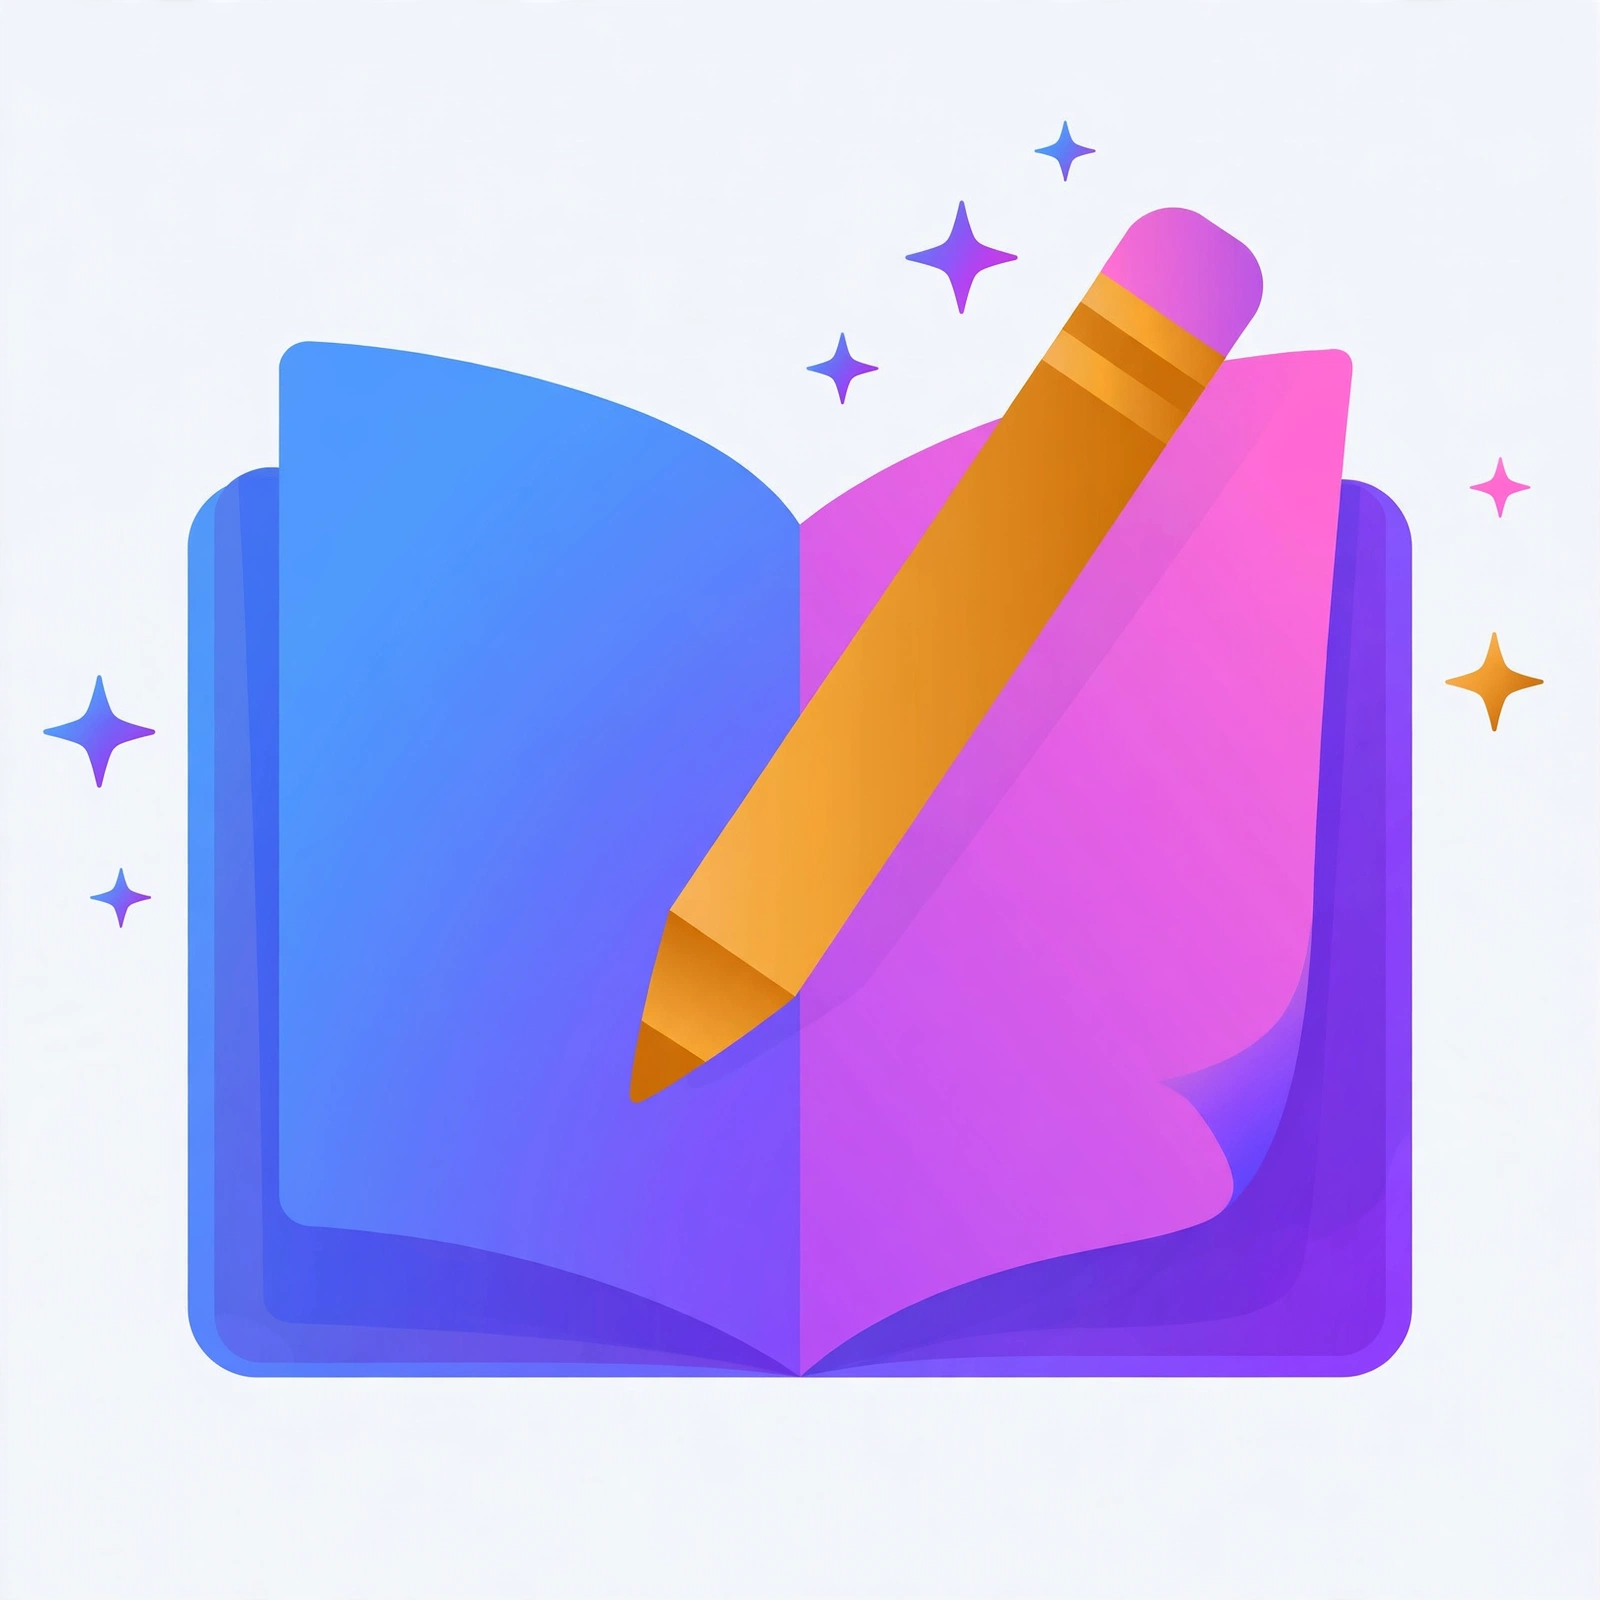
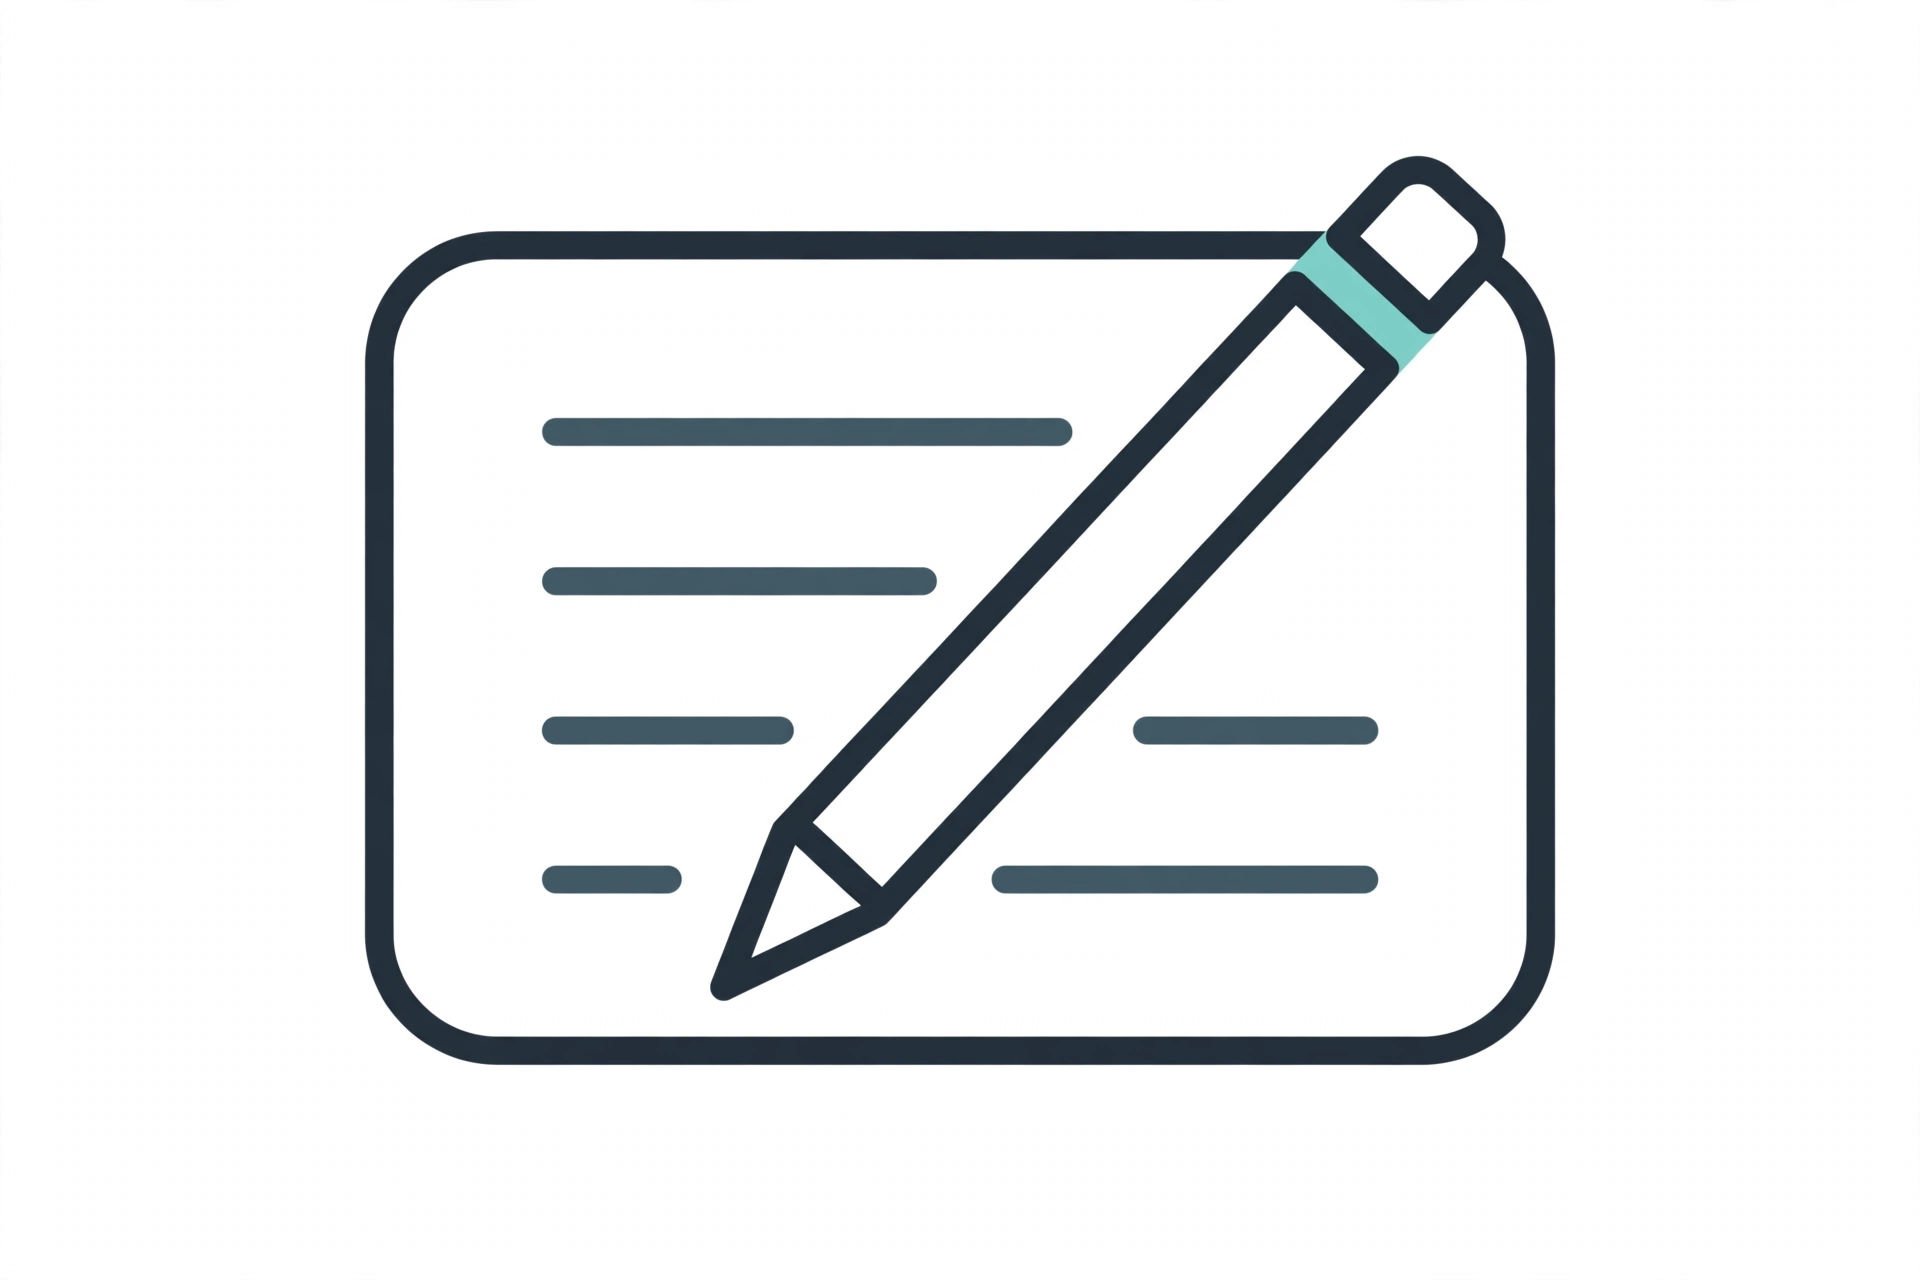
v2.0.0: white minimal redesign (Dobo-style headings via Baloo 2, Teal/Gray palette, HD assets)

diff --git a/public/index.html b/public/index.html
@@ -6,46 +6,21 @@
 <title>Focus Desk</title>
 <link rel="preconnect" href="https://fonts.googleapis.com">
 <link rel="preconnect" href="https://fonts.gstatic.com" crossorigin>
-<link href="https://fonts.googleapis.com/css2?family=Plus+Jakarta+Sans:wght@400;500;600;700&family=Sora:wght@600;700;800&display=swap" rel="stylesheet">
+<link href="https://fonts.googleapis.com/css2?family=Baloo+2:wght@700;800&family=Inter:wght@400;500;600;700&display=swap" rel="stylesheet">
 <style>
   :root{
-    --bg:#faf7ff; --card:#ffffff; --ink:#211a35; --muted:#7c7492;
-    --line:#e9e1f6; --accent:#8b5cf6; --accent-soft:#f1e9fd;
-    --brand1:#ec4899; --brand2:#8b5cf6; --brand3:#3b82f6;
-    --gold1:#fbbf24; --gold2:#f97316;
-    --gradient:linear-gradient(135deg,#ec4899 0%,#8b5cf6 52%,#3b82f6 100%);
-    --gradient-warm:linear-gradient(135deg,#fbbf24,#f97316);
-    --green:#10b981; --green-soft:#d9f6e9; --red:#f43f5e;
-    --shadow:0 2px 6px rgba(33,26,53,.05),0 20px 48px -20px rgba(139,92,246,.28);
-    --radius:22px;
-  }
-  @media (prefers-color-scheme: dark){
-    :root{
-      --bg:#110d1c; --card:#1b152b; --ink:#f3eefa; --muted:#9d94b8;
-      --line:#2d2544; --accent:#a78bfa; --accent-soft:#2a2140;
-      --green:#34d399; --green-soft:#173a2c; --red:#fb7185;
-      --shadow:0 2px 6px rgba(0,0,0,.35),0 20px 48px -20px rgba(139,92,246,.35);
-    }
+    --bg:#FFFFFF; --card:#FFFFFF; --ink:#263238; --muted:#455A64;
+    --line:#CFD8DC; --accent:#80CBC4; --accent-soft:#ECEFF1;
+    --green:#2E7D32; --green-soft:#E8F5E9; --red:#C62828; --red-soft:#FCECEA;
+    --shadow:0 1px 2px rgba(38,50,56,.06),0 10px 28px -16px rgba(38,50,56,.14);
+    --radius:14px;
   }
   *{box-sizing:border-box;margin:0;padding:0}
   html{-webkit-text-size-adjust:100%}
   body{
-    font-family:"Plus Jakarta Sans",-apple-system,BlinkMacSystemFont,"SF Pro Text","Segoe UI",Roboto,Helvetica,Arial,sans-serif;
+    font-family:"Inter",-apple-system,BlinkMacSystemFont,"SF Pro Text","Segoe UI",Roboto,Helvetica,Arial,sans-serif;
     background:var(--bg);color:var(--ink);
     min-height:100vh;line-height:1.55;
-    background-image:
-      radial-gradient(900px 480px at 12% -60px,rgba(236,72,153,.16),transparent 60%),
-      radial-gradient(820px 440px at 88% -40px,rgba(59,130,246,.15),transparent 60%),
-      radial-gradient(760px 560px at 50% 115%,rgba(139,92,246,.12),transparent 62%);
-    background-attachment:fixed;
-  }
-  @media (prefers-color-scheme: dark){
-    body{
-      background-image:
-        radial-gradient(900px 480px at 12% -60px,rgba(236,72,153,.10),transparent 60%),
-        radial-gradient(820px 440px at 88% -40px,rgba(59,130,246,.10),transparent 60%),
-        radial-gradient(760px 560px at 50% 115%,rgba(139,92,246,.10),transparent 62%);
-    }
   }
   .offline-banner{
     background:var(--red);color:#fff;text-align:center;font-size:13px;font-weight:600;
@@ -60,29 +35,22 @@
     margin-bottom:26px;
   }
   .title{display:flex;align-items:center;gap:14px}
-  .brand{width:52px;height:52px;border-radius:16px;object-fit:cover;flex:none;
-    box-shadow:0 8px 20px -6px rgba(139,92,246,.55)}
+  .brand{width:52px;height:52px;border-radius:14px;object-fit:cover;flex:none;
+    border:1px solid var(--line)}
   .title h1{
-    font-family:"Sora","Plus Jakarta Sans",sans-serif;font-weight:800;
-    font-size:clamp(28px,4vw,38px);letter-spacing:-.025em;line-height:1.1;
+    font-family:"Baloo 2","Inter",sans-serif;font-weight:800;
+    font-size:clamp(28px,4vw,38px);letter-spacing:-.01em;line-height:1.1;color:var(--ink);
   }
-  .title h1 .dot{
-    background:var(--gradient);-webkit-background-clip:text;background-clip:text;color:transparent;
-  }
+  .title h1 .dot{color:var(--accent)}
   .title p{color:var(--muted);font-size:14px;margin-top:2px}
   .stats{display:flex;gap:10px;flex-wrap:wrap}
   .stat{
-    background:var(--card);border:1px solid var(--line);border-radius:16px;
+    background:var(--card);border:1px solid var(--line);border-radius:var(--radius);
     padding:10px 16px;box-shadow:var(--shadow);text-align:center;min-width:92px;
-    position:relative;overflow:hidden;
-  }
-  .stat::before{
-    content:"";position:absolute;top:0;left:0;right:0;height:3px;background:var(--gradient);
   }
   .stat b{
-    display:block;font-family:"Sora",sans-serif;font-size:22px;font-weight:700;
-    font-variant-numeric:tabular-nums;
-    background:var(--gradient);-webkit-background-clip:text;background-clip:text;color:transparent;
+    display:block;font-family:"Baloo 2","Inter",sans-serif;font-size:22px;font-weight:800;
+    font-variant-numeric:tabular-nums;color:var(--ink);
   }
   .stat span{font-size:11px;color:var(--muted);text-transform:uppercase;letter-spacing:.06em;font-weight:600}
 
@@ -94,43 +62,42 @@
     box-shadow:var(--shadow);padding:22px;display:flex;flex-direction:column;gap:14px;min-width:0;
   }
   .card h2{
-    font-family:"Sora",sans-serif;font-size:16px;font-weight:700;letter-spacing:-.01em;
-    display:flex;align-items:center;gap:12px;
+    font-family:"Baloo 2","Inter",sans-serif;font-size:17px;font-weight:700;letter-spacing:0;
+    display:flex;align-items:center;gap:12px;color:var(--ink);
   }
   .card-art{
-    width:46px;height:46px;border-radius:14px;object-fit:cover;flex:none;
-    box-shadow:0 6px 14px -6px rgba(139,92,246,.5);
+    width:46px;height:46px;border-radius:12px;object-fit:cover;flex:none;
+    border:1px solid var(--line);
   }
 
   /* Inputs & buttons */
   input[type=text],textarea{
-    font:inherit;color:var(--ink);background:var(--bg);
-    border:1px solid var(--line);border-radius:14px;padding:11px 14px;width:100%;
+    font:inherit;color:var(--ink);background:#fff;
+    border:1px solid var(--line);border-radius:12px;padding:11px 14px;width:100%;
     transition:border-color .15s,box-shadow .15s;
   }
   input[type=text]:focus,textarea:focus{
-    outline:none;border-color:var(--brand2);
-    box-shadow:0 0 0 3px rgba(139,92,246,.18);
+    outline:none;border-color:var(--muted);
+    box-shadow:0 0 0 3px rgba(128,203,196,.28);
   }
   button{font:inherit;cursor:pointer;border:none;background:none;color:inherit}
   .btn{
-    background:var(--gradient);color:#fff;font-weight:700;border-radius:14px;
-    padding:11px 20px;transition:transform .08s ease,box-shadow .15s,filter .15s;
-    box-shadow:0 10px 22px -10px rgba(139,92,246,.65);
+    background:var(--ink);color:#fff;font-weight:700;border-radius:12px;
+    padding:11px 20px;transition:transform .08s ease,background .15s;
   }
-  .btn:hover{filter:brightness(1.06)}
+  .btn:hover{background:var(--muted)}
   .btn:active{transform:scale(.97)}
   .btn.ghost{
-    background:var(--accent-soft);color:var(--ink);border:1px solid var(--line);box-shadow:none;
+    background:#fff;color:var(--ink);border:1px solid var(--line);
   }
-  .btn.ghost:hover{background:var(--line)}
+  .btn.ghost:hover{background:var(--accent-soft)}
   .row{display:flex;gap:10px}
   .row input{flex:1}
 
   /* Todos */
   .todo-list{list-style:none;display:flex;flex-direction:column;gap:8px}
   .todo{
-    display:flex;align-items:center;gap:12px;padding:10px 12px;border-radius:14px;
+    display:flex;align-items:center;gap:12px;padding:10px 12px;border-radius:12px;
     border:1px solid transparent;transition:background .15s;
   }
   .todo:hover{background:var(--accent-soft)}
@@ -143,44 +110,43 @@
   .todo.done .text{color:var(--muted);text-decoration:line-through}
   .del{opacity:.35;font-size:16px;padding:4px 8px;border-radius:8px;line-height:1}
   .del:hover{opacity:1;background:var(--accent-soft)}
-  .empty{color:var(--muted);font-size:14px;text-align:center;padding:18px 8px;border:1px dashed var(--line);border-radius:14px}
+  .empty{color:var(--muted);font-size:14px;text-align:center;padding:18px 8px;border:1px dashed var(--line);border-radius:12px}
 
   /* Habits */
   .habit{
     display:flex;align-items:center;gap:12px;padding:12px;border:1px solid var(--line);
-    border-radius:16px;background:var(--bg);
+    border-radius:var(--radius);background:#fff;
   }
   .habit-info{flex:1;min-width:0}
   .habit-info .name{font-weight:600;overflow-wrap:anywhere}
   .habit-info .streak{font-size:13px;color:var(--muted)}
-  .streak.on{color:var(--brand1);font-weight:700}
+  .streak.on{color:var(--ink);font-weight:700}
   .dots{display:flex;gap:4px;margin-top:6px}
-  .dots i{width:10px;height:10px;border-radius:50%;background:var(--line)}
-  .dots i.hit{background:var(--gradient)}
-  .dots i.today{outline:2px solid var(--brand2);outline-offset:1px}
+  .dots i{width:10px;height:10px;border-radius:50%;background:var(--accent-soft)}
+  .dots i.hit{background:var(--accent)}
+  .dots i.today{outline:2px solid var(--muted);outline-offset:1px}
   .habit-btn{
     width:44px;height:44px;border-radius:50%;border:2px solid var(--line);
-    font-size:20px;flex:none;display:grid;place-items:center;transition:all .15s;background:var(--card);
+    font-size:20px;flex:none;display:grid;place-items:center;transition:all .15s;background:#fff;
   }
-  .habit-btn.hit{background:var(--gradient);border-color:transparent;color:#fff}
+  .habit-btn.hit{background:var(--accent);border-color:var(--accent);color:#fff}
 
   /* Timer */
   .timer-card{align-items:center;text-align:center}
   .modes{display:flex;gap:8px;flex-wrap:wrap;justify-content:center}
   .mode{
     padding:8px 16px;border-radius:999px;border:1px solid var(--line);
-    font-size:13px;font-weight:700;color:var(--muted);background:var(--bg);transition:all .15s;
+    font-size:13px;font-weight:700;color:var(--muted);background:#fff;transition:all .15s;
   }
-  .mode.active{background:var(--gradient);color:#fff;border-color:transparent;
-    box-shadow:0 8px 18px -8px rgba(139,92,246,.6)}
+  .mode.active{background:var(--ink);color:#fff;border-color:var(--ink)}
   .ring-wrap{position:relative;width:220px;height:220px;margin:6px auto}
   .ring-wrap svg{transform:rotate(-90deg)}
-  .ring-bg{stroke:var(--line)}
-  .ring-fg{stroke-linecap:round;transition:stroke-dashoffset .4s linear}
+  .ring-bg{stroke:var(--accent-soft)}
+  .ring-fg{stroke:var(--accent);stroke-linecap:round;transition:stroke-dashoffset .4s linear}
   .ring-label{position:absolute;inset:0;display:flex;flex-direction:column;justify-content:center;align-items:center}
   .ring-label time{
-    font-family:"Sora",sans-serif;font-size:46px;font-weight:700;
-    font-variant-numeric:tabular-nums;letter-spacing:-.02em;
+    font-family:"Baloo 2","Inter",sans-serif;font-size:46px;font-weight:700;
+    font-variant-numeric:tabular-nums;letter-spacing:-.02em;color:var(--ink);
   }
   .ring-label small{color:var(--muted);text-transform:uppercase;letter-spacing:.1em;font-size:11px;font-weight:600}
   .timer-controls{display:flex;gap:10px;justify-content:center;flex-wrap:wrap}
@@ -199,67 +165,65 @@
   /* Auth overlay */
   .auth-overlay{
     position:fixed;inset:0;z-index:100;display:grid;place-items:center;padding:20px;
-    background:color-mix(in srgb, var(--bg) 82%, transparent);
+    background:rgba(255,255,255,.92);
     backdrop-filter:blur(8px);-webkit-backdrop-filter:blur(8px);
   }
   .auth-overlay[hidden]{display:none}
   .auth-card{
-    background:var(--card);border:1px solid var(--line);border-radius:24px;
+    background:var(--card);border:1px solid var(--line);border-radius:18px;
     box-shadow:var(--shadow);padding:26px;width:100%;max-width:400px;
     display:flex;flex-direction:column;gap:12px;
   }
   .auth-hero{
-    width:100%;height:168px;object-fit:cover;border-radius:16px;flex:none;
-    box-shadow:0 10px 24px -12px rgba(139,92,246,.5);
+    width:100%;height:168px;object-fit:cover;border-radius:12px;flex:none;
+    border:1px solid var(--line);
   }
   .auth-card h1{
-    font-family:"Sora",sans-serif;font-weight:800;
-    font-size:30px;letter-spacing:-.02em;text-align:center;
+    font-family:"Baloo 2","Inter",sans-serif;font-weight:800;
+    font-size:30px;letter-spacing:0;text-align:center;color:var(--ink);
   }
-  .auth-card h1 .dot{
-    background:var(--gradient);-webkit-background-clip:text;background-clip:text;color:transparent;
-  }
+  .auth-card h1 .dot{color:var(--accent)}
   .auth-sub{text-align:center;color:var(--muted);font-size:14px;margin-top:-8px}
-  .auth-tabs{display:flex;background:var(--accent-soft);border-radius:14px;padding:4px;margin:4px 0}
-  .auth-tab{flex:1;padding:9px;border-radius:10px;font-weight:700;font-size:14px;color:var(--muted)}
-  .auth-tab.active{background:var(--card);color:var(--ink);box-shadow:var(--shadow)}
+  .auth-tabs{display:flex;background:var(--accent-soft);border-radius:12px;padding:4px;margin:4px 0}
+  .auth-tab{flex:1;padding:9px;border-radius:9px;font-weight:700;font-size:14px;color:var(--muted)}
+  .auth-tab.active{background:#fff;color:var(--ink);box-shadow:var(--shadow)}
   .auth-card input[type=text],.auth-card input[type=password],.auth-card input[type=email]{
-    font:inherit;color:var(--ink);background:var(--bg);
-    border:1px solid var(--line);border-radius:14px;padding:11px 14px;width:100%;
+    font:inherit;color:var(--ink);background:#fff;
+    border:1px solid var(--line);border-radius:12px;padding:11px 14px;width:100%;
   }
   .auth-card input[type=text]:focus,.auth-card input[type=password]:focus,.auth-card input[type=email]:focus{
-    outline:none;border-color:var(--brand2);box-shadow:0 0 0 3px rgba(139,92,246,.18);
+    outline:none;border-color:var(--muted);box-shadow:0 0 0 3px rgba(128,203,196,.28);
   }
   .auth-error{
-    background:var(--accent-soft);color:var(--red);font-size:13px;font-weight:600;
-    border-radius:14px;padding:10px 12px;
+    background:var(--red-soft);color:var(--red);font-size:13px;font-weight:600;
+    border-radius:12px;padding:10px 12px;
   }
   .auth-error[hidden]{display:none}
   .auth-ok{
     background:var(--green-soft);color:var(--green);font-size:13px;font-weight:600;
-    border-radius:14px;padding:10px 12px;
+    border-radius:12px;padding:10px 12px;
   }
   .auth-ok[hidden]{display:none}
   .field-label{display:block;font-size:12px;font-weight:600;color:var(--muted);margin:4px 0 -8px}
-  #profileEmail[readonly]{background:var(--bg);color:var(--muted);cursor:default}
+  #profileEmail[readonly]{background:var(--accent-soft);color:var(--muted);cursor:default}
   .linklike{
     background:none;border:0;color:var(--muted);text-decoration:underline;
-    font-size:13px;padding:8px;cursor:pointer;font-family:inherit;
+    font-size:13px;padding:8px;cursor:pointer;font-family:inherit;font-weight:600;
   }
   .linklike[hidden]{display:none}
   .flash{
     position:fixed;top:12px;left:50%;transform:translateX(-50%);z-index:100;
     background:var(--green-soft);color:var(--green);font-weight:600;font-size:14px;
-    padding:10px 18px;border-radius:14px;box-shadow:var(--shadow);max-width:90vw;text-align:center;
+    padding:10px 18px;border-radius:12px;box-shadow:var(--shadow);max-width:90vw;text-align:center;
   }
-  .flash.err{background:var(--accent-soft);color:var(--red)}
+  .flash.err{background:var(--red-soft);color:var(--red)}
   .auth-hint{text-align:center;color:var(--muted);font-size:12px}
   .auth-divider{display:flex;align-items:center;gap:10px;margin:2px 0;color:var(--muted);font-size:13px}
   .auth-divider[hidden]{display:none}
   .auth-divider::before,.auth-divider::after{content:"";flex:1;height:1px;background:var(--line)}
   .google-btn{
     display:flex;align-items:center;justify-content:center;gap:10px;width:100%;
-    padding:11px 12px;border-radius:14px;border:1px solid var(--line);
+    padding:11px 12px;border-radius:12px;border:1px solid var(--line);
     background:#fff;color:#1f1f1f;font-size:15px;font-weight:600;cursor:pointer;
   }
   .google-btn[hidden]{display:none}
@@ -273,17 +237,18 @@
 
   /* Weather */
   .weather-now{display:flex;align-items:center;gap:14px}
-  .weather-art{width:64px;height:64px;border-radius:18px;object-fit:cover;flex:none;
-    box-shadow:0 8px 18px -8px rgba(59,130,246,.55)}
+  .weather-art{width:64px;height:64px;border-radius:16px;object-fit:cover;flex:none;
+    border:1px solid var(--line)}
   .weather-temp{
-    font-family:"Sora",sans-serif;font-size:40px;font-weight:700;
-    font-variant-numeric:tabular-nums;letter-spacing:-.02em;
+    font-family:"Baloo 2","Inter",sans-serif;font-size:40px;font-weight:700;
+    font-variant-numeric:tabular-nums;letter-spacing:-.02em;color:var(--ink);
   }
   .weather-meta{min-width:0}
   .weather-cond{font-weight:700}
   .weather-hilo{font-size:13px;color:var(--muted)}
   .weather-loc{font-size:12px;color:var(--muted);margin-top:2px}
   .unit-toggle{font-size:12px;color:var(--muted);text-decoration:underline;padding:2px 4px}
+
 </style>
 
 </head>
@@ -390,16 +355,9 @@
       </div>
       <div class="ring-wrap" aria-live="polite">
         <svg width="220" height="220" viewBox="0 0 220 220">
-          <defs>
-            <linearGradient id="ringGrad" x1="0" y1="0" x2="1" y2="1">
-              <stop offset="0" stop-color="#ec4899"/>
-              <stop offset=".52" stop-color="#8b5cf6"/>
-              <stop offset="1" stop-color="#3b82f6"/>
-            </linearGradient>
-          </defs>
           <circle class="ring-bg" cx="110" cy="110" r="100" fill="none" stroke-width="12"/>
           <circle class="ring-fg" id="ringFg" cx="110" cy="110" r="100" fill="none" stroke-width="12"
-                  stroke="url(#ringGrad)" stroke-dasharray="628.3" stroke-dashoffset="0"/>
+                   stroke-dasharray="628.3" stroke-dashoffset="0"/>
         </svg>
         <div class="ring-label">
           <time id="clock">25:00</time>
